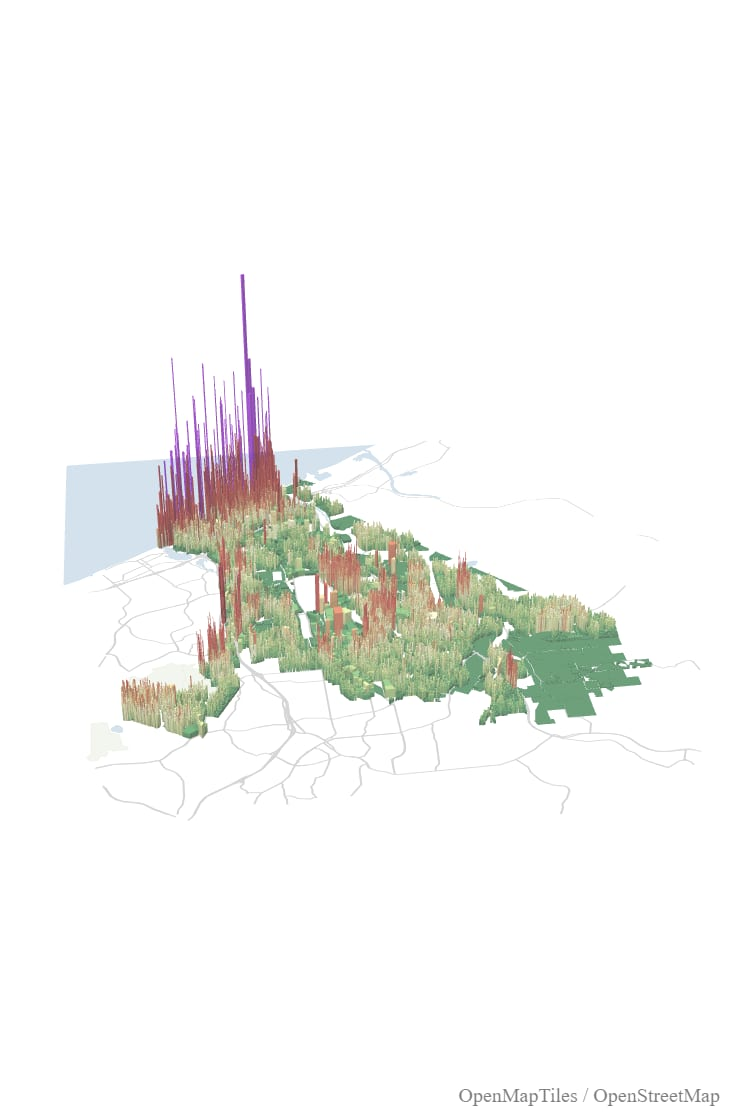
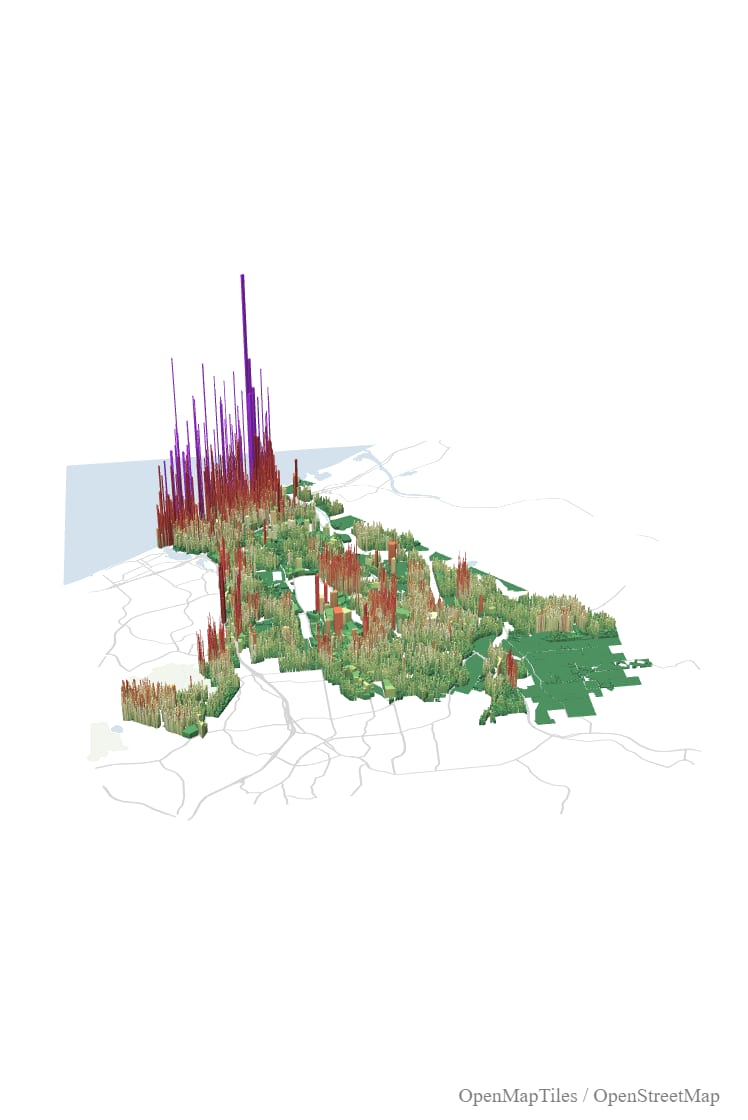
style(viz): saturate extrusions to match the original deck.gl palette
The old deck.gl-era screenshots rendered extrusions on pure white, so
the 538 threshold palette read as fully saturated even at ~65%
effective opacity. With the MapLibre basemap under the bars, 0.75
opacity let the pale-tan parks / light-grey streets bleed through
and mute the apparent colour. Two tweaks to bring the live map in
line with the reference screenshot:

  - fill-extrusion-opacity bumped from 0.75 to 0.95 so the basemap
    stays visible in the gaps between parcels but doesn't blend
    through them.
  - Added a style-level light definition (anchor viewport, intensity
    0.6, position [1.15, 210, 30]) so MapLibre's default
    directional shading doesn't darken vertical faces below the top
    face. The choropleth now reads as flat colour per parcel.

Regenerated desktop + mobile posters at the new saturation so the
fallback images match the live map.

Changed region(s): [[0.1537, 0.25, 0.861, 0.6562]]

diff --git a/src/components/viz/choropleth-3d-maplibre.tsx b/src/components/viz/choropleth-3d-maplibre.tsx
@@ -165,6 +165,15 @@ export default function Choropleth3DMaplibre({ artifact }: Props) {
       // they become editorially useful.
       style: {
         version: 8,
+        // Soften MapLibre's default directional light so fill-extrusion
+        // vertical faces don't render darker than the top face. Keeps
+        // the choropleth palette reading as flat colour.
+        light: {
+          anchor: "viewport",
+          color: "#ffffff",
+          intensity: 0.6,
+          position: [1.15, 210, 30],
+        },
         sources: {
           omt: {
             type: "vector",
@@ -313,10 +322,11 @@ export default function Choropleth3DMaplibre({ artifact }: Props) {
           paint: {
             "fill-extrusion-color": buildStepColorExpression(color.field, color.domain, color.range) as any,
             "fill-extrusion-height": ["/", ["get", elevation.field], elevation.divisor ?? 1] as any,
-            // 0.75 matches the saturation the poster thumbnails were
-            // captured at. Bumping higher makes bars block too much of
-            // the basemap that the user actually wants to show through.
-            "fill-extrusion-opacity": 0.75,
+            // High opacity + light ambient (below, on the style) keeps
+            // extrusion colours crisp against the basemap instead of
+            // letting the pale-tan / pale-green basemap bleed through
+            // vertical faces and mute the palette.
+            "fill-extrusion-opacity": 0.95,
           },
         });
 
